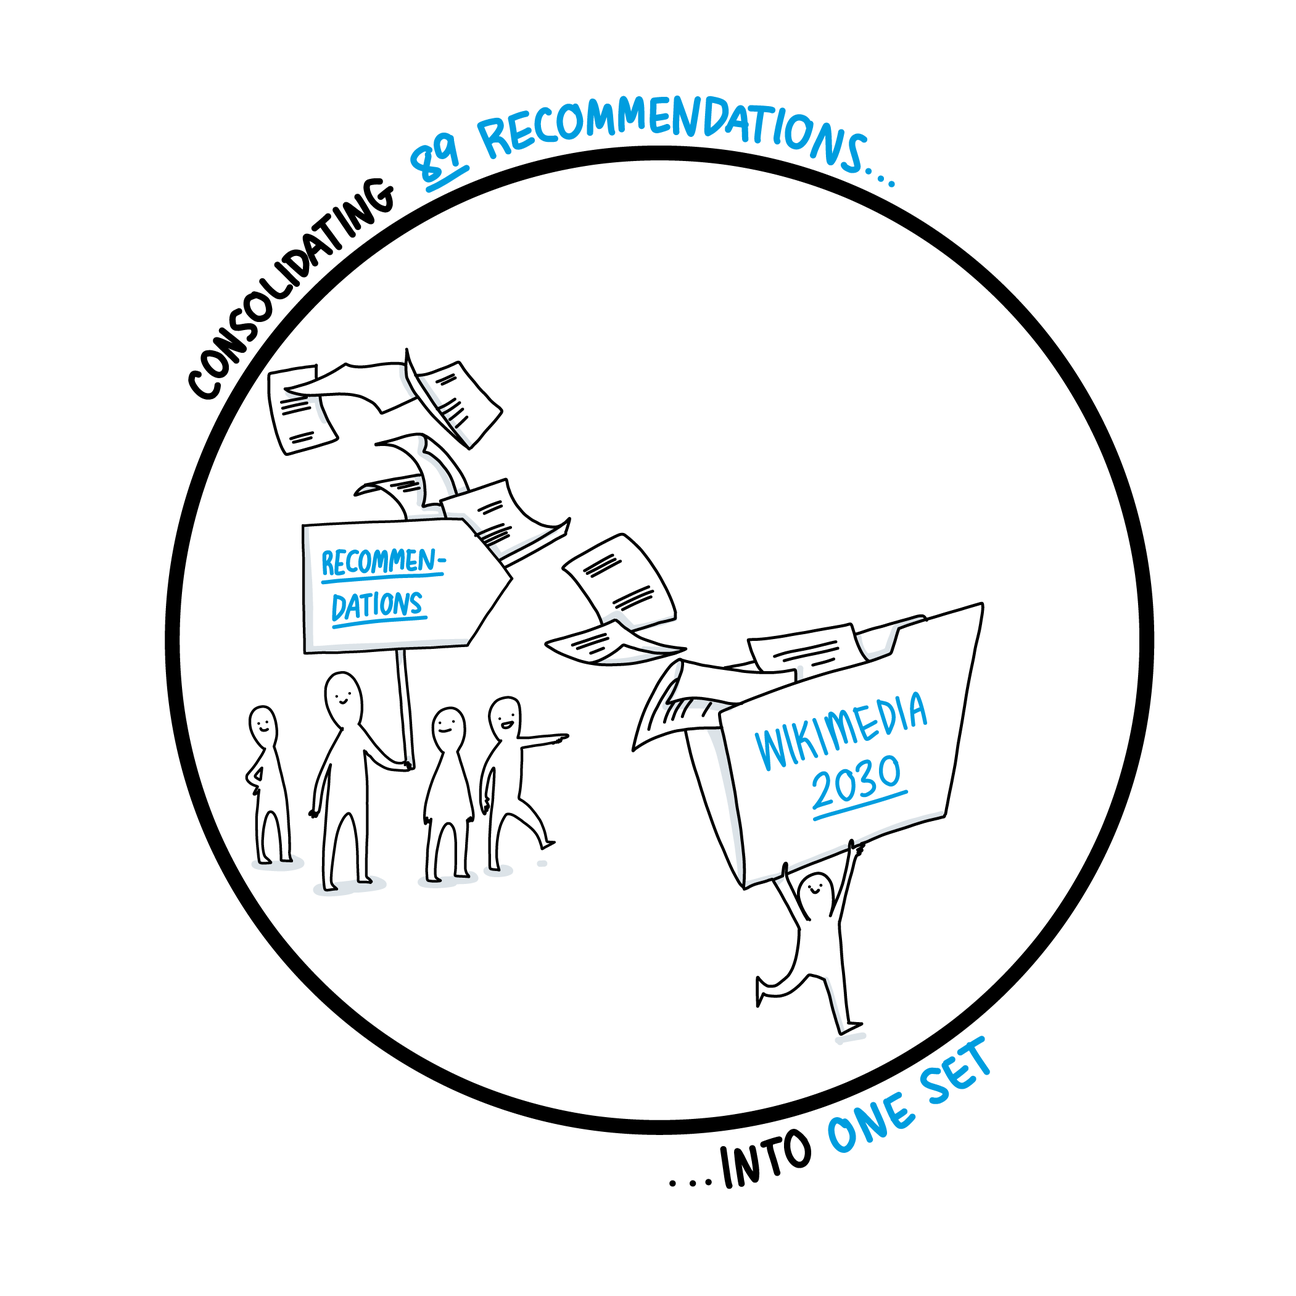
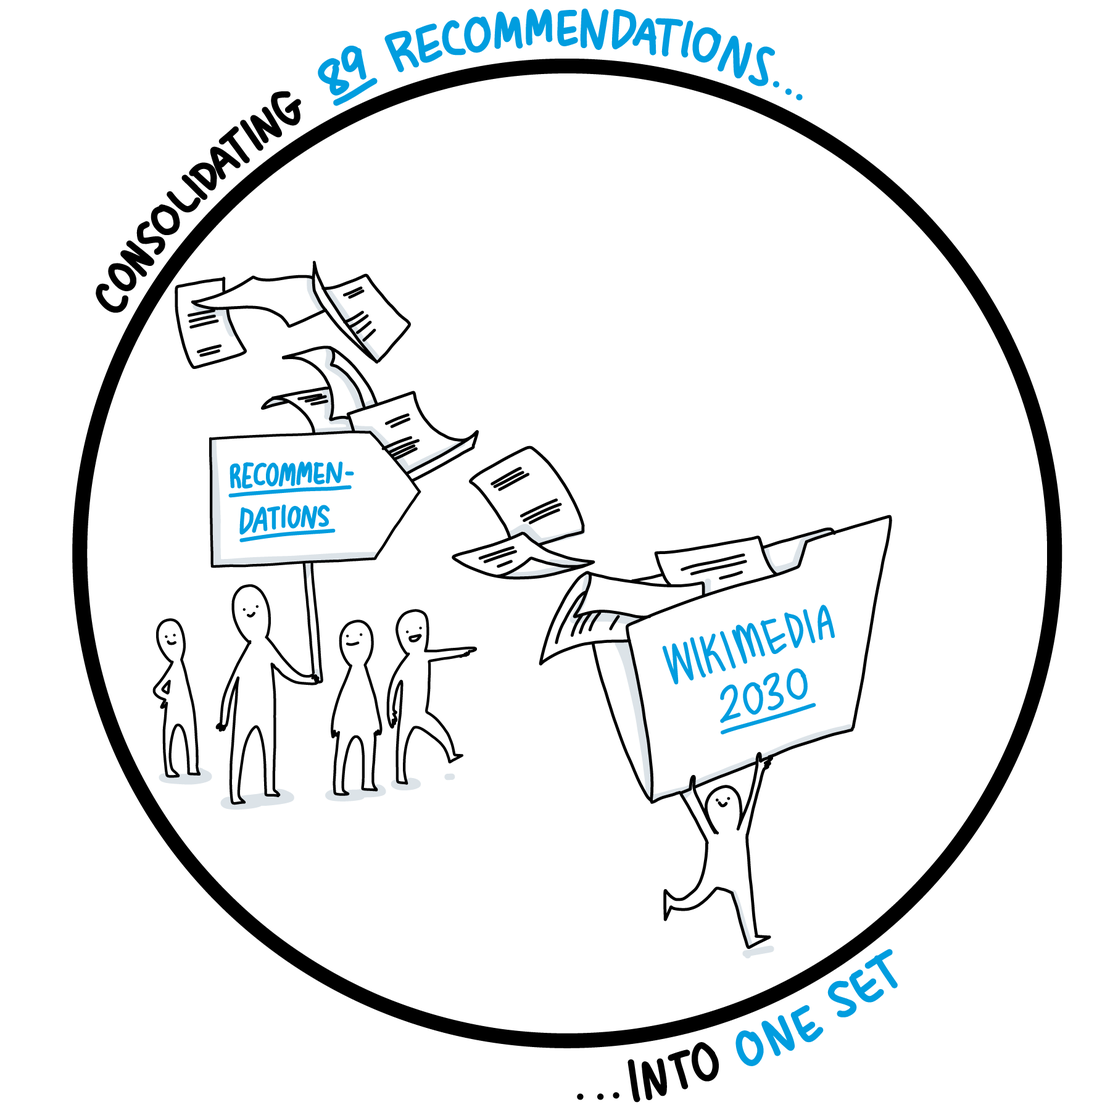
finish 2030 page, clean up unused images

diff --git a/src/pages/wikimedia/2017 Movement strategy.rst b/src/pages/wikimedia/2017 Movement strategy.rst
@@ -19,7 +19,6 @@
    `Luca Baggio <https://unsplash.com/@luca42>`__ on `Unsplash <https://unsplash.com/photos/eKU3JGNCCMg>`__.
 
 
-
 .. highlights::
 
    In 2016–2017, I was a Lead Architect for Wikimedia 2030, a global, participatory strategy process involving dozens of movement organizations and thousands of individuals. I was key in designing the process and guiding the movement through an intense exercise involving several cycles of community discussions, in-person events, interviews with experts, and commissioned research.
@@ -29,6 +28,8 @@
    The Strategic Direction of "Knowledge Equity and Knowledge as a Service" now serves as the compass for multi-year strategic planning by Wikimedia organizations, and guides decision-making around roles, responsibilities, and resources in the Wikimedia movement.
 
 
+----
+
 "Your mission, should you choose to accept it ..."
 ==================================================
 
@@ -36,7 +37,7 @@
 
    `Emily Morter <https://unsplash.com/@emilymorter>`__ on `Unsplash <https://unsplash.com/photos/m4GTgk-Q6QY>`__
 
-TODO: Add intro
+We had less than a year to get a boisterous global movement aligned on a shared strategic direction. Like all good *Mission: Impossible* episodes, not everything went according to plan. But we adapted to the unexpected and, against all odds, brought the movement together for the first time in years. 
 
 We chose to do this not because it was easy.
 --------------------------------------------
@@ -51,9 +52,11 @@ Building a strategy is hard, but we are a movement of smart, passionate people o
 
 And so it began. We put together a team. We designed a process, and adjusted it many times. Our aim was to identify a common strategic direction that would unite and inspire people across our movement on our way to 2030, and help us make decisions. I was a Lead Architect in the small core team driving this process,\ [#CoreTeam]_ along with other employees of the Wikimedia Foundation and in the movement,  the folks at williamsworks,\ [#Williamsworks]_ and our fearless leader, Katherine Maher.
 
-.. [#CoreTeam] `Strategy > Wikimedia movement > 2017 > People > Core team <https://meta.wikimedia.org/wiki/Strategy/Wikimedia_movement/2017/People/Core_team>`__. Meta-Wiki, 2017.
+.. sidebar::
 
-.. [#Williamsworks] `williamsworks <http://williamsworks.com/>`__ is a small consultancy firm led by Whitney Williams and based in Montana.
+   .. [#CoreTeam] `Strategy > Wikimedia movement > 2017 > People > Core team <https://meta.wikimedia.org/wiki/Strategy/Wikimedia_movement/2017/People/Core_team>`__. Meta-Wiki, 2017.
+
+   .. [#Williamsworks] `williamsworks <http://williamsworks.com/>`__ is a small consultancy firm led by Whitney Williams and based in Montana.
 
 .. class:: rowstart-2 rowspan-4
 .. sidebar::
@@ -78,6 +81,8 @@ And so it began. We put together a team. We designed a process, and adjusted it 
 
       Jason Krüger for Wikimedia Deutschland e.V. (`1 <https://commons.wikimedia.org/wiki/File:Wikimedia_Conference_2017_%E2%80%93_118.jpg>`__, `2 <https://commons.wikimedia.org/wiki/File:Wikimedia_Conference_2017_%E2%80%93_117.jpg>`__, `4 <https://commons.wikimedia.org/wiki/File:Wikimedia_Conference_2018_%E2%80%93_134.jpg>`__), `CC BY-SA 4.0 <https://creativecommons.org/licenses/by-sa/4.0/legalcode>`__ // `Myleen Hollero <http://myleenhollero.com/>`__ (3, 5), `CC BY-SA 3.0 <https://creativecommons.org/licenses/by-sa/3.0/legalcode>`__.
 
+
+----
 
 Building alignment
 ------------------
@@ -116,6 +121,7 @@ Cyndi Suarez from *Nonprofit Quarterly* wrote that "Wikimedia's Strategic Direct
 
       "Hopes and fears" at the Wikimedia Conference in 2017. René Zieger for Wikimedia Deutschland e.V. on Wikimedia Commons (`1 <https://commons.wikimedia.org/wiki/File:Wikimedia_Conference_2017_by_Ren%C3%A9_Zieger_%E2%80%93_269.jpg>`__, `2 <https://commons.wikimedia.org/wiki/File:Wikimedia_Conference_2017_by_Ren%C3%A9_Zieger_%E2%80%93_268.jpg>`__) //  `CC BY-SA 4.0 <https://creativecommons.org/licenses/by-sa/4.0/legalcode>`__.
 
+----
 
 The 2030 horizon
 ================
@@ -125,7 +131,7 @@ The 2030 horizon
 
    NASA's Goddard Space Flight Center on `Wikimedia Commons <https://commons.wikimedia.org/wiki/File:A_Year_In_The_Life_Of_Earth%27s_CO2_11719-1920-MASTER.webm>`__ // Public Domain
 
-TODO: Add intro
+What would the world look like in 2030? What could we reasonably estimate, and what was unknowable? We grounded our collective thinking in facts, like good Wikipedians, and from there tried to figure out our place in the world of 2030.
 
 A broad direction for the movement
 ----------------------------------
@@ -142,6 +148,7 @@ We started from a simple question: *What do we want to build or achieve together
 
 From on-wiki discussions, to large conferences, to small meetups, to expert interviews, to desk and field research, the process was exhaustive, messy, and fascinating. It did not take long to confirm that the greatest strength of the Wikimedia movement is the talent, dedication, and integrity of its members. We are all part of this movement because we share a belief that :doc:`free knowledge makes the world a better place <stakes-of-knowledge>`.
 
+----
 
 Citations needed
 ----------------
@@ -189,7 +196,7 @@ Thinking about the future is an exercise in imagination, but we're Wikimedians, 
       `Rod Waddington <https://www.flickr.com/people/64607715@N05>`__ (`1 <https://commons.wikimedia.org/wiki/File:Boys_in_Jibla,_Yemen_(14159835344).jpg>`__, `4 <https://commons.wikimedia.org/wiki/File:Malagasy_Kids,_Madagascar_(27013871533).jpg>`__), `CC-By-SA 2.0 <https://creativecommons.org/licenses/by-sa/2.0/legalcode>`__ // NASA `(2) <https://commons.wikimedia.org/wiki/File:Earth_Eastern_Hemisphere.jpg>`__, Public domain // `Zack McCune <https://commons.wikimedia.org/wiki/User:ZMcCune_(WMF)>`__ `(3) <https://commons.wikimedia.org/wiki/File:RamPrasadJoshi_PhoneCloseUp_WikiconferenceIndia_August6.jpg>`__, `CC By-SA 4.0 <https://creativecommons.org/licenses/by-sa/4.0/legalcode>`__ //  `Benoît Prieur <https://commons.wikimedia.org/wiki/User:Beno%C3%AEt_Prieur>`__ `(5) <https://commons.wikimedia.org/wiki/File:Cam%C3%A9ras_de_surveillance_%C3%A0_Lyon_pr%C3%A8s_des_Halles_Paul-Bocuse_(mai_2019).jpg>`__, `CC By-SA 4.0 <https://creativecommons.org/licenses/by-sa/4.0/legalcode>`__.
 
 
-
+----
 
 Engaging a whole movement
 =========================
@@ -199,7 +206,8 @@ Engaging a whole movement
 
    `Jason Krüger <https://commons.wikimedia.org/wiki/File:Wikimedia_Summit_2019_-_172.jpg>`__ for Wikimedia Deutschland e.V. //  `CC BY-SA 4.0 <https://creativecommons.org/licenses/by-sa/4.0/legalcode>`__.
 
-TODO: add intro
+A movement strategy is useless unless it resonates with the constituents of the movement. Trying to impose a top-down vision would have been catastrophic. The only (and much harder) way this could work was by bringing the whole movement along in the process, including the voices that had been historically left out.
+
 
 Learning from each other
 ------------------------
@@ -240,6 +248,8 @@ All those discussions and research projects produced massive amounts of notes, r
 ..
 ..      <figcaption>Video loaded from YouTube <a href="/privacy-policy" title="See Privacy policy" class="privacy-policy">🛡</a>. Also available on <a class="reference external" href="https://commons.wikimedia.org/wiki/File:Wikimedia_Foundation_metrics_and_activities_meeting_-_April_2017.webm">Wikimedia Commons</a>.</figcaption>
 ..    </figure>
+
+----
 
 Amplifying new voices
 ---------------------
@@ -284,6 +294,8 @@ The Foundation couldn't do this alone; we are a global and distributed movement,
 
 .. [#NewReaders] The `New Readers program <https://meta.wikimedia.org/wiki/New_Readers>`__ was an interdisciplinary initiative of the Foundation between 2016 and 2019 whose goal was "understanding and serving potential Wikimedia readers in countries where access to the internet [was] quickly growing."
 
+----
+
 The Strategic Direction
 =======================
 
@@ -291,7 +303,8 @@ The Strategic Direction
 
    `Svenja Kirsch, Anna Lena Schiller <https://www.riesenspatz.de/>`__, and `NANöR <https://commons.wikimedia.org/wiki/User:NAN%C3%B6R>`__ on `Wikimedia Commons <https://commons.wikimedia.org/wiki/File:Greetings_from_the_year_2030-ar.png>`__ // `CC By-SA 4.0 <https://creativecommons.org/licenses/by-sa/4.0/legalcode>`__.
 
-TODO: add intro
+Writing a compelling vision for the future is a difficult enough task in one language. Our strategic direction needed to make sense and be translatable into all the languages of the Wikimedia movement, and also relatable across a wide variety of cultures. Through trial and error, in the Wikipedia way, we refined and improved our drafts until the final text revealed itself.
+
 
 Roads, bridges, and villages
 ----------------------------
@@ -335,24 +348,28 @@ The "roads and bridges" were a direct reference to Nadia Eghbal's excellent rese
 
 .. [#EghbalRoadsBridges] `Roads and Bridges: The Unseen Labor Behind Our Digital Infrastructure <https://www.fordfoundation.org/work/learning/research-reports/roads-and-bridges-the-unseen-labor-behind-our-digital-infrastructure/>`__. Nadia Eghbal. Ford Foundation, 2016.
 
+----
+
 Converging on a shared direction
 --------------------------------
 
-As it turned out, many Wikimedians found the metaphors to be too "flowery" and "poetic," too far removed from the seriousness of their endeavor. Some also took offense at the comparison to villages; they explained that in their culture, small settlements have a negative connotation of backwardness and stagnation, and that real change and advancement happens in cities. When I rewrote the direction to integrate all the feedback, I took this into account and decided to use more precise (and complex) words like "infrastructure" and "ecosystem" instead, and to explain how to translate those concepts instead of translating words.\ [#TranslateExt]_
+As it turned out, many Wikimedians found the metaphors to be too "flowery" and "poetic," too far removed from the seriousness of their endeavor. Some also took offense at the comparison to villages; they explained that in their culture, small settlements have a negative connotation of backwardness and stagnation, and that real change and advancement happens in cities. When I rewrote the direction to integrate all the feedback, I took this into account and decided to use more precise (and complex) words like "infrastructure" and "ecosystem" instead, and to explain how to translate those concepts instead of translating words.
 
-.. class:: rowspan-2
-.. [#TranslateExt] Translation of pages on Wikimedia sites happens through the "Translate extension," a dedicated tool built for the MediaWiki software. When preparing pages for translation, an author may add "message documentation" to provide additional context to translators about a particular sentence or paragraph.
+.. sidebar::
+   :class: rowspan-2
+
+   Translation of pages on Wikimedia sites happens through the "Translate extension," a dedicated tool built for the MediaWiki software. When preparing pages for translation, an author may add "message documentation" to provide additional context to translators about a particular sentence or paragraph.
 
    I used this feature to describe concepts like "the essential infrastructure" ("idea of a backbone, foundation. Something that allows something to stand up; Something upon which one builds something else") and "ecosystem" ("idea of an organic, dynamic group, network, or environment, with many components that have effects on each other and sometimes depend on each other"). See `Example of message documentation for the first paragraph of the Strategic Direction <https://meta.wikimedia.org/wiki/Translations:Strategy/Wikimedia_movement/2017/Direction/182/qqq>`__, Meta-Wiki, 2017.
 
 Some Wikimedians found the Wikimania draft to focus too much on technical infrastructure and tools. A first attempt at better highlighting the human aspect of the movement left others feeling that the technical aspects were not emphasized enough. We eventually settled on a strategic direction that acknowledged the duality of our movement as a complex socio-technical system, and painted the vision of a future to which everyone could contribute.
 
+----
+
 Direction and Endorsement
 -------------------------
 
-Knowledge Equity and Knowledge as a service
-
-
+The final text of the strategic direction elevated two major concepts: Knowledge Equity, centered around justice in the creation and dissemination of knowledge; and Knowledge as a Service, centered around a technical infrastructure for knowledge that others can build upon and extend.
 
 .. sidebar::
    :class: rowspan-3
@@ -367,12 +384,11 @@ Knowledge Equity and Knowledge as a service
 
       --- `Strategic direction <https://meta.wikimedia.org/wiki/Strategy/Wikimedia_movement/2017/Direction>`__ (final text).
 
+In order to record the commitment of organizations across the movement, Nicole Ebber and I organized an endorsement campaign for the strategic direction. Nicole Ebber had been leading and coordinating our work with "organized groups" across the movement: meaning chapters, user groups, and other affiliates.
 
+Within a few days, dozens of organizations had added their signature to the direction. By endorsing, they pledged to consider the needs of the movement above their own, and committed to "participating in the next phase of this discussion in good faith and to define, by Wikimania 2018, how to come to an agreement on roles, responsibilities, and organizational strategies that enable us to implement that future." Over a hundred Wikimedia organizations ended up endorsing the strategic direction.
 
-I worked with Nicole Ebber, who was leading and coordinating our work with "organized groups" across the movement (meaning chapters, user groups, and other affiliates).
-
-
-
+----
 
 Recommendations and implementation
 ==================================
@@ -381,94 +397,61 @@ Recommendations and implementation
 
    Jason Krüger for Wikimedia Deutschland e.V. on `Wikimedia Commons <https://commons.wikimedia.org/wiki/File:Wikimedia_Conference_2018_%E2%80%93_299.jpg>`__ //  `CC BY-SA 4.0 <https://creativecommons.org/licenses/by-sa/4.0/legalcode>`__.
 
+The strategic direction was only the first step. Once we had decided where we wanted to go by 2030, the movement needed to figure out how to implement that vision. I was part of the "Revenue streams" working group and helped write recommendations to guide our collective work.
+
 Phase 2: Working groups and recommendations
 -------------------------------------------
 
-Between 2018 and 2020 (Phase 2), `nine thematic working groups <https://meta.wikimedia.org/wiki/Strategy/Wikimedia_movement/2018-20/Working_Groups>`__ composed of volunteers, staff, and affiliates prepared Recommendations for the movement to work towards the Direction. Some of the upcoming discussions revolved around "big questions" like movement roles, governance, and decision making.
-
-For my part, after the endorsement of the Strategic Direction, I decided to focus on another endeavor as I joined the Wikimedia Foundation's :doc:`Advancement department <advancement>`. In parallel with my work on :doc:`Revenue strategy <wikimedia-revenue-strategy>`, I continued to participate in Wikimedia 2030 as a member of the "Revenue Streams" working group, and as one of the last group of "integrators" who took the dozens of recommendations coming from all the working groups, and consolidated them into the `final list of recommendations <https://meta.wikimedia.org/wiki/Strategy/Wikimedia_movement/2018-20/Recommendations>`__ (and accompanying `principles <https://meta.wikimedia.org/wiki/Strategy/Wikimedia_movement/2018-20/Recommendations/Movement_Strategy_Principles>`__) in 2020. 
-
-Although I was not leading Phase 2 efforts, I continued to advise the Wikimedia 2030 core team as needed during that period
-
-
-
-
-
-
-I was not done thinking about the future though. Taking the long view. :doc:`2031 scenarios <2031-scenarios>`
-
-
-
-
-.. figure:: /images/Movement_Strategy_Process_-_Synthesizing_89_recommendations_into_one_set._Oct_2019_to_Jan_2020.png
-   :figclass: full-content framed
-
-   `Svenja Kirsch, Anna Lena Schiller <https://www.riesenspatz.de/>`__ on `Wikimedia Commons <https://commons.wikimedia.org/wiki/File:Movement_Strategy_Process_-_Synthesizing_89_recommendations_into_one_set._Oct_2019_to_Jan_2020.png>`__ // `CC By-SA 4.0 <https://creativecommons.org/licenses/by-sa/4.0/legalcode>`__.
+Between 2018 and 2020 (Phase 2), `nine thematic working groups <https://meta.wikimedia.org/wiki/Strategy/Wikimedia_movement/2018-20/Working_Groups>`__ composed of volunteers, staff, and affiliates prepared Recommendations for the movement to work towards the Direction. Some of the discussions revolved around "big questions" like movement roles, governance, and decision making.
 
 .. sidebar::
-
-   .. figure:: /images/Working_groups_established.png
-
-      `Svenja Kirsch, Anna Lena Schiller <https://www.riesenspatz.de/>`__ on `Wikimedia Commons <https://commons.wikimedia.org/wiki/File:Working_groups_established.png>`__ // `CC By-SA 4.0 <https://creativecommons.org/licenses/by-sa/4.0/legalcode>`__.
+   :class: rowspan-4
 
    .. figure:: /images/Movement_Strategy_events_and_meetings.png
-
-      `Svenja Kirsch, Anna Lena Schiller <https://www.riesenspatz.de/>`__ on `Wikimedia Commons <https://commons.wikimedia.org/wiki/File:Movement_Strategy_events_and_meetings.png>`__ // `CC By-SA 4.0 <https://creativecommons.org/licenses/by-sa/4.0/legalcode>`__.
-
-   .. figure:: /images/Drafting_Movement_Strategy_recommendations.png
-
-      `Svenja Kirsch, Anna Lena Schiller <https://www.riesenspatz.de/>`__ on `Wikimedia Commons <https://commons.wikimedia.org/wiki/File:Drafting_Movement_Strategy_recommendations.png>`__ // `CC By-SA 4.0 <https://creativecommons.org/licenses/by-sa/4.0/legalcode>`__.
-
-   .. figure:: /images/Finalizing_the_Movement_Strategy_recommendations.png
-
-      `Svenja Kirsch, Anna Lena Schiller <https://www.riesenspatz.de/>`__ on `Wikimedia Commons <https://commons.wikimedia.org/wiki/File:Finalizing_the_Movement_Strategy_recommendations.png>`__ // `CC By-SA 4.0 <https://creativecommons.org/licenses/by-sa/4.0/legalcode>`__.
-
    .. figure:: /images/Movement_Strategy_recommendations_synthesis.png
 
-      `Svenja Kirsch, Anna Lena Schiller <https://www.riesenspatz.de/>`__ on `Wikimedia Commons <https://commons.wikimedia.org/wiki/File:Movement_Strategy_recommendations_synthesis.png>`__ // `CC By-SA 4.0 <https://creativecommons.org/licenses/by-sa/4.0/legalcode>`__.
+      `Svenja Kirsch & Anna Lena Schiller <https://www.riesenspatz.de/>`__ on Wikimedia Commons (`1 <https://commons.wikimedia.org/wiki/File:Movement_Strategy_events_and_meetings.png>`__, `2 <https://commons.wikimedia.org/wiki/File:Movement_Strategy_recommendations_synthesis.png>`__ // `CC By-SA 4.0 <https://creativecommons.org/licenses/by-sa/4.0/legalcode>`__.
 
-   .. figure:: /images/Movement_Strategy_recommendations_published_no_titles.png
+For my part, after the endorsement of the Strategic Direction, I decided to focus on another endeavor as I joined the Wikimedia Foundation's :doc:`Advancement department <advancement>`. Although I was not leading Phase 2 efforts, I continued to advise the Wikimedia 2030 core team as needed during that period.
 
-      `Svenja Kirsch, Anna Lena Schiller <https://www.riesenspatz.de/>`__ on `Wikimedia Commons <https://commons.wikimedia.org/wiki/File:Movement_Strategy_recommendations_published_no_titles.png>`__ // `CC By-SA 4.0 <https://creativecommons.org/licenses/by-sa/4.0/legalcode>`__.
+In parallel with my work on :doc:`Revenue strategy <wikimedia-revenue-strategy>`, I continued to participate in Wikimedia 2030 as a member of the "Revenue Streams" working group. I was also one of the last group of "integrators" who took the 89 recommendations coming from all the working groups, and consolidated them into the `final list of recommendations <https://meta.wikimedia.org/wiki/Strategy/Wikimedia_movement/2018-20/Recommendations>`__ (and accompanying `principles <https://meta.wikimedia.org/wiki/Strategy/Wikimedia_movement/2018-20/Recommendations/Movement_Strategy_Principles>`__) in 2020. 
 
-
-
-
-
+----
 
 Phase 3 and beyond: Towards implementation
 ------------------------------------------
 
-As of 2023, the movement is now in Phase 3 of Movement Strategy: implementation through `prioritized Initiatives <https://meta.wikimedia.org/wiki/Movement_Strategy/Initiatives>`__. This last phase is notably hindered by strategy fatigue and loss of momentum. While the Recommendations are considered to be necessary, they are also unlikely to be sufficient to realize the 2030 vision of the movement. In 2022, the Foundation grounded its `2022–2023 annual plan <https://meta.wikimedia.org/wiki/Wikimedia_Foundation_Annual_Plan/2022-2023>`__ in the Strategic Direction, and is now seeking to align its multi-year strategic planning with the Direction, Recommendations, Principles, and other movement-wide strategic guideposts.
+As of 2023, the movement is now in Phase 3 of Movement Strategy: implementation through `prioritized initiatives <https://meta.wikimedia.org/wiki/Movement_Strategy/Initiatives>`__. This last phase is notably hindered by strategy fatigue and loss of momentum. While the Recommendations are considered to be necessary, they are also unlikely to be sufficient to realize the 2030 vision of the movement. In 2022, the Foundation grounded its `2022–2023 annual plan <https://meta.wikimedia.org/wiki/Wikimedia_Foundation_Annual_Plan/2022-2023>`__ in the strategic direction, and is now seeking to align its multi-year strategic planning with the direction, recommendations, principles, and other movement-wide strategic guideposts.
 
-.. figure:: /images/Timeline_for_Phase_I,_II,_and_III_of_the_Movement_Strategy.png
-   :figclass: full-content framed
+.. sidebar::
 
-   `Svenja Kirsch, Anna Lena Schiller <https://www.riesenspatz.de/>`__ on `Wikimedia Commons <https://commons.wikimedia.org/wiki/File:Timeline_for_Phase_I,_II,_and_III_of_the_Movement_Strategy.png>`__ // `CC By-SA 4.0 <https://creativecommons.org/licenses/by-sa/4.0/legalcode>`__.
+   .. figure:: /images/Movement_Strategy_recommendations_published_no_titles.png
 
-https://meta.wikimedia.org/wiki/Strategy/Wikimedia_movement/2018-20/Reports/Movement_Strategy_Playbook
+      `Svenja Kirsch & Anna Lena Schiller <https://www.riesenspatz.de/>`__ on `Wikimedia Commons <https://commons.wikimedia.org/wiki/File:Movement_Strategy_recommendations_published_no_titles.png>`__ // `CC By-SA 4.0 <https://creativecommons.org/licenses/by-sa/4.0/legalcode>`__.
 
-MTP, then Strategic direction as the basis for the annual plan of the Foundation starting in 2022
+----
 
 The People
 ==========
-
 
 .. figure:: /images/Wikimedia_Conference_2017_–_223.jpg
 
    Jason Krüger for Wikimedia Deutschland e.V. on `Wikimedia Commons <https://commons.wikimedia.org/wiki/File:Wikimedia_Conference_2017_%E2%80%93_223.jpg>`__ //  `CC BY-SA 4.0 <https://creativecommons.org/licenses/by-sa/4.0/legalcode>`__.
 
+Beyond process, direction, and recommendations, movement strategy was really about movement building. It was about listening to each other, finding common ground, and seeing each other as kin.
 
-What I took away, what I learned
-
-sense of accomplishment;
+It's hard to overestimate the impact of movement strategy on the trajectory of the Wikimedia Foundation and the movement, and I feel a sense of accomplishment (and rare pride) when I think about my role in it. Not everyone has the opportunity to shape the future of a global movement that itself has an impact on billions of lives.
 
 .. figure:: /images/Kathering_Maher_-_All_Hands_2020_Talk.png
+   :figclass: framed-img
 
-   `Jess Klein <https://commons.wikimedia.org/wiki/User:Iamjessklein>`__ on `Wikimedia Commons <https://commons.wikimedia.org/wiki/File:Kathering_Maher_-_All_Hands_2020_Talk.png>`__ // `CC By-SA 4.0 <https://creativecommons.org/licenses/by-sa/4.0/legalcode>`__.
+   The strategic direction has been the main narrative of the Wikimedia movement since 2017, like in this talk by Katherine Maher illustrated by `Jess Klein <https://commons.wikimedia.org/wiki/User:Iamjessklein>`__ (`Wikimedia Commons <https://commons.wikimedia.org/wiki/File:Kathering_Maher_-_All_Hands_2020_Talk.png>`__ // `CC By-SA 4.0 <https://creativecommons.org/licenses/by-sa/4.0/legalcode>`__).
 
+Along with my efforts to promote neurodiversity, my work on movement strategy is probably one of the most notable elements of my legacy in the Wikimedia movement. But beyond legacy, what I will remember most about that chapter of my life is all the people I met and worked with, without whom none of this would have been possible. Without them, this mission would, undoubtedly, have been truly impossible.
 
-.. container:: honeycomb
+----
+
+.. container:: honeycomb full-content
    :name: people
 
    .. figure:: /images/Wikimedia_Conference_2018_–_071.jpg
